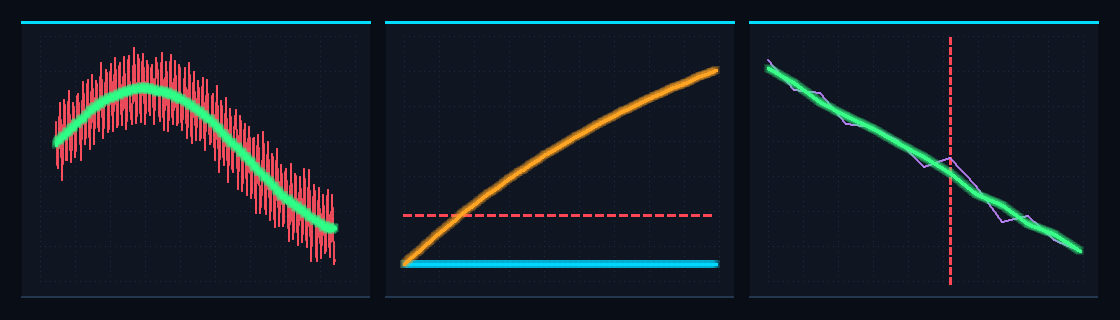
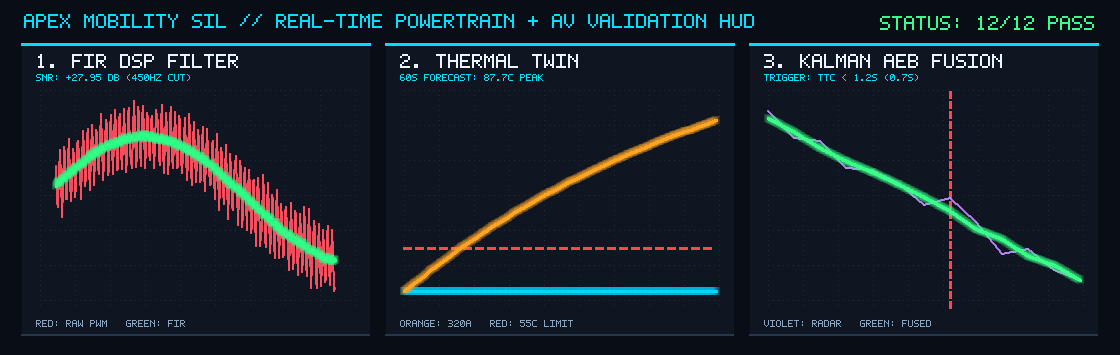
feat(docs): render labeled HUD telemetry dashboard and status pill

Changed region(s): [[0.0, 0.0312, 1.0, 0.8438], [0.0312, 0.875, 0.9688, 0.9688]]

diff --git a/telemetry/logger/upgrade_hud.py b/telemetry/logger/upgrade_hud.py
@@ -1,5 +1,30 @@
 import math, random, struct, zlib
 
+GLYPHS = {
+    "A": "01110100011000111111100011000110001", "B": "11110100011000111110100011000111110",
+    "C": "01111100001000010000100001000001111", "D": "11110100011000110001100011000111110",
+    "E": "11111100001000011110100001000011111", "F": "11111100001000011110100001000010000",
+    "G": "01111100001000010111100011000101111", "H": "10001100011000111111100011000110001",
+    "I": "11111001000010000100001000010011111", "K": "10001100101010011000101001001010001",
+    "L": "10000100001000010000100001000011111", "M": "10001110111010110101100011000110001",
+    "N": "10001110011010110011100011000110001", "O": "01110100011000110001100011000101110",
+    "P": "11110100011000111110100001000010000", "R": "11110100011000111110101001001010001",
+    "S": "01111100001000001110000010000111110", "T": "11111001000010000100001000010000100",
+    "U": "10001100011000110001100011000101110", "V": "10001100011000110001100010101000100",
+    "W": "10001100011000110101101011101110001", "X": "10001100010101000100010101000110001",
+    "Y": "10001100010101000100001000010000100", "Z": "11111000010001000100010001000011111",
+    "0": "01110100111010110101110011000101110", "1": "00100011000010000100001000010001110",
+    "2": "01110100010000100110010001000011111", "3": "11110000010000101110000010000111110",
+    "4": "00010001100101010010111110001000010", "5": "11111100001111000001000011000101110",
+    "6": "01110100001000011110100011000101110", "7": "11111000010001000100010000100001000",
+    "8": "01110100011000101110100011000101110", "9": "01110100011000101111000010000101110",
+    ":": "00000001000010000000001000010000000", ".": "00000000000000000000000000110001100",
+    "-": "00000000000000011111000000000000000", "+": "00000001000010011111001000010000000",
+    "/": "00001000100010000100010001000000000", "<": "00010001000100010000010000010000010",
+    "(": "00010001000100001000010000010000010", ")": "01000001000001000010000100010001000",
+    " ": "00000000000000000000000000000000000",
+}
+
 def write_png(path, w, h, buf):
     def chk(t, d):
         return struct.pack("!I", len(d)) + t + d + struct.pack("!I", zlib.crc32(t + d) & 0xFFFFFFFF)
@@ -18,6 +43,18 @@ def px(buf, w, h, x, y, r, g, b, a=1.0):
         buf[i+1] = int(buf[i+1] * (1 - a) + g * a)
         buf[i+2] = int(buf[i+2] * (1 - a) + b * a)
 
+def text(buf, w, h, x0, y0, s, r, g, b, sc=2):
+    cx = x0
+    for ch in s.upper():
+        bits = GLYPHS.get(ch, GLYPHS[" "])
+        for idx, bit in enumerate(bits):
+            if bit == "1":
+                rx, ry = idx % 5, idx // 5
+                for dy in range(sc):
+                    for dx in range(sc):
+                        px(buf, w, h, cx + rx*sc + dx, y0 + ry*sc + dy, r, g, b)
+        cx += 6 * sc
+
 def line(buf, w, h, x0, y0, x1, y1, r, g, b, thick=1, a=1.0):
     steps = max(abs(x1 - x0), abs(y1 - y0), 1)
     for s in range(steps + 1):
@@ -30,23 +67,45 @@ def line(buf, w, h, x0, y0, x1, y1, r, g, b, thick=1, a=1.0):
 def plot(buf, w, h, xs, ys, x0, x1, y0, y1, bx, by, bw, bh, r, g, b, glow=True):
     pts = [(int(round(bx + (x - x0)/(x1 - x0)*bw)), int(round(by + bh - (y - y0)/(y1 - y0)*bh))) for x, y in zip(xs, ys)]
     for i in range(1, len(pts)):
-        p0, p1 = pts[i-1], pts[i]
+        (x0, y0), (x1, y1) = pts[i-1], pts[i]
         if glow:
-            line(buf, w, h, p0[0], p0[1], p1[0], p1[1], r, g, b, thick=7, a=0.16)
-        line(buf, w, h, p0[0], p0[1], p1[0], p1[1], r, g, b, thick=2 if glow else 1, a=1.0 if glow else 0.7)
+            line(buf, w, h, x0, y0, x1, y1, r, g, b, thick=7, a=0.16)
+        line(buf, w, h, x0, y0, x1, y1, r, g, b, thick=2 if glow else 1, a=1.0 if glow else 0.75)
 
-W, H = 1120, 320
+# 1. Generate labeled status badge
+BW, BH = 292, 28
+bbuf = bytearray(bytes((18, 25, 36)) * (BW * BH))
+for y in range(1, BH - 1):
+    for x in range(140, BW - 1):
+        px(bbuf, BW, BH, x, y, 16, 115, 65)
+text(bbuf, BW, BH, 14, 8, "SIL GATE", 205, 230, 250, sc=2)
+text(bbuf, BW, BH, 152, 8, "12/12 PASS", 235, 255, 245, sc=2)
+write_png("docs/ci_badge.png", BW, BH, bbuf)
+
+# 2. Generate labeled 3-panel HUD dashboard
+W, H = 1120, 355
 buf = bytearray(bytes((9, 13, 22)) * (W * H))
-for cx in (22, 386, 750):
-    for y in range(22, 298):
+text(buf, W, H, 24, 14, "APEX MOBILITY SIL // REAL-TIME POWERTRAIN + AV VALIDATION HUD", 0, 225, 255, sc=2)
+text(buf, W, H, 880, 16, "STATUS: 12/12 PASS", 55, 255, 140, sc=2)
+
+cards = [
+    (22,  "1. FIR DSP FILTER",   "SNR: +27.95 DB (450HZ CUT)", "RED: RAW PWM | GREEN: FIR"),
+    (386, "2. THERMAL TWIN",     "60S FORECAST: 87.7C PEAK",   "ORANGE: 320A | RED: 55C LIMIT"),
+    (750, "3. KALMAN AEB FUSION","TRIGGER: TTC < 1.2S (0.7S)", "VIOLET: RADAR | GREEN: FUSED"),
+]
+for cx, title, metric, legend in cards:
+    for y in range(44, 336):
         for x in range(cx, cx + 348):
             px(buf, W, H, x, y, 15, 22, 34)
-    line(buf, W, H, cx, 22, cx + 347, 22, 0, 220, 255, thick=2)
-    line(buf, W, H, cx, 297, cx + 347, 297, 35, 55, 78, thick=1)
+    line(buf, W, H, cx, 44, cx + 347, 44, 0, 220, 255, thick=2)
+    line(buf, W, H, cx, 335, cx + 347, 335, 35, 55, 78, thick=1)
+    text(buf, W, H, cx + 14, 54, title, 235, 245, 255, sc=2)
+    text(buf, W, H, cx + 14, 74, metric, 0, 225, 255, sc=1)
+    text(buf, W, H, cx + 14, 320, legend, 140, 165, 190, sc=1)
     for gx in range(cx + 18, cx + 335, 35):
-        for y in range(36, 284, 5):
+        for y in range(90, 310, 5):
             px(buf, W, H, gx, y, 32, 45, 62)
-    for gy in range(36, 285, 35):
+    for gy in range(90, 311, 35):
         for x in range(cx + 18, cx + 334, 5):
             px(buf, W, H, x, gy, 32, 45, 62)
 
@@ -55,29 +114,29 @@ t = [i * 0.5 for i in range(300)]
 clean = [120 + 35 * math.sin(2 * math.pi * 5 * (i / 2000)) for i in range(300)]
 noisy = [clean[i] + 18 * math.sin(2 * math.pi * 450 * (i / 2000)) + rng.gauss(0, 2.2) for i in range(300)]
 filt = [sum(noisy[max(0, min(299, i - k + 12))] for k in range(25)) / 25.0 for i in range(300)]
-plot(buf, W, H, t[15:-15], noisy[15:-15], 0, 150, 60, 180, 40, 38, 312, 244, 255, 80, 95, glow=False)
-plot(buf, W, H, t[15:-15], filt[15:-15], 0, 150, 60, 180, 40, 38, 312, 244, 45, 255, 135, glow=True)
+plot(buf, W, H, t[15:-15], noisy[15:-15], 0, 150, 60, 180, 40, 92, 312, 215, 255, 80, 95, glow=False)
+plot(buf, W, H, t[15:-15], filt[15:-15], 0, 150, 60, 180, 40, 92, 312, 215, 45, 255, 135, glow=True)
 
 hor = list(range(61))
 tc, ts = [44.0], [44.0]
 for _ in hor[1:]:
     tc.append(tc[-1] + ((120**2)*0.015 - 18*(tc[-1]-32))/1200)
     ts.append(ts[-1] + ((320**2)*0.015 - 18*(ts[-1]-32))/1200)
-lim_y = int(round(38 + 244 - ((55 - 40) / 55) * 244))
+lim_y = int(round(92 + 215 - ((55 - 40) / 55) * 215))
 for x in range(404, 716, 12):
     line(buf, W, H, x, lim_y, x + 6, lim_y, 255, 70, 85, thick=2)
-plot(buf, W, H, hor, tc, 0, 60, 40, 95, 404, 38, 312, 244, 0, 215, 255, glow=True)
-plot(buf, W, H, hor, ts, 0, 60, 40, 95, 404, 38, 312, 244, 255, 165, 35, glow=True)
+plot(buf, W, H, hor, tc, 0, 60, 40, 95, 404, 92, 312, 215, 0, 215, 255, glow=True)
+plot(buf, W, H, hor, ts, 0, 60, 40, 95, 404, 92, 312, 215, 255, 165, 35, glow=True)
 
 st = [s * 0.1 for s in range(13)]
 td = [45 - 25 * s for s in st]
 rd = [d + rng.gauss(0, 1.4) for d in td]
 fd = [d + rng.gauss(0, 0.25) for d in td]
 aeb_x = int(round(768 + (0.7 / 1.2) * 312))
-for y in range(38, 282, 10):
+for y in range(92, 307, 10):
     line(buf, W, H, aeb_x, y, aeb_x, y + 5, 255, 70, 85, thick=2)
-plot(buf, W, H, st, rd, 0, 1.2, 10, 50, 768, 38, 312, 244, 195, 135, 255, glow=False)
-plot(buf, W, H, st, fd, 0, 1.2, 10, 50, 768, 38, 312, 244, 57, 255, 136, glow=True)
+plot(buf, W, H, st, rd, 0, 1.2, 10, 50, 768, 92, 312, 215, 195, 135, 255, glow=False)
+plot(buf, W, H, st, fd, 0, 1.2, 10, 50, 768, 92, 312, 215, 57, 255, 136, glow=True)
 
 write_png("docs/sil_telemetry_dashboard.png", W, H, buf)
-print("[PASS] Glowing HUD dashboard generated!")
+print("[PASS] Labeled HUD dashboard and badge generated!")
